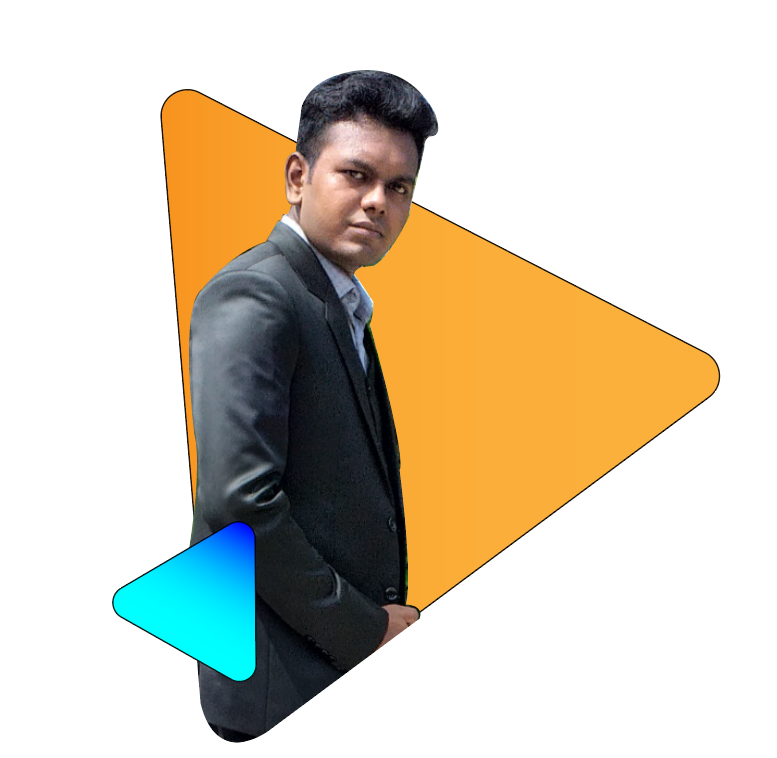
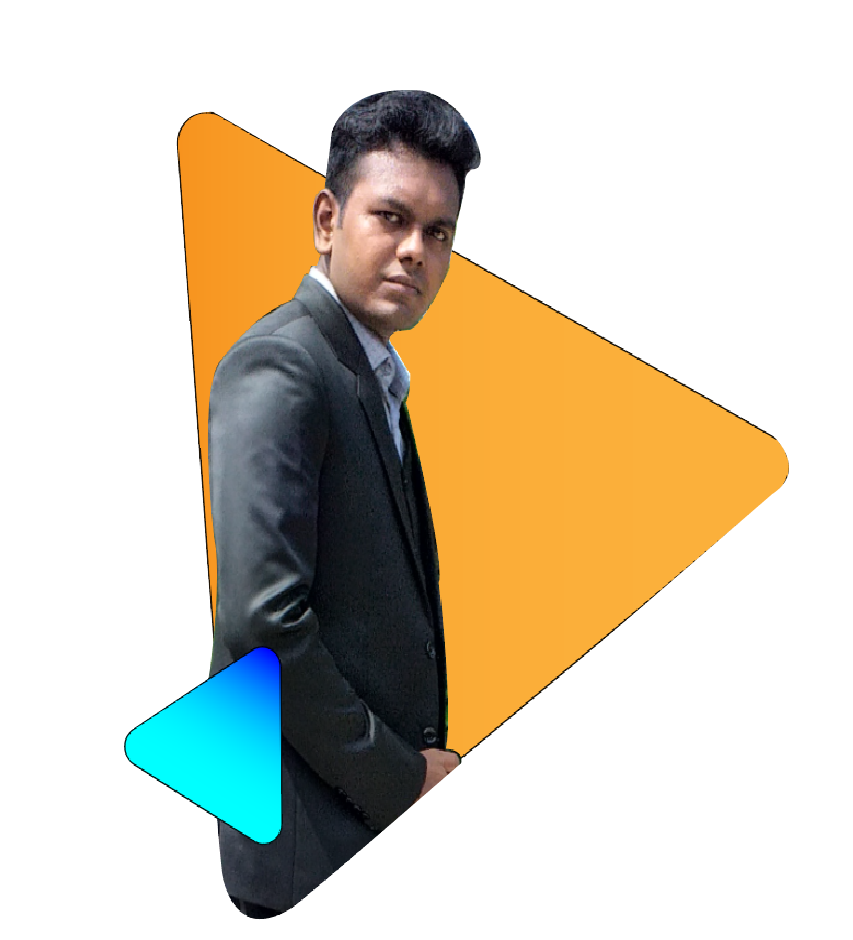
img change

diff --git a/index.html b/index.html
@@ -21,15 +21,15 @@
             <a class="orange" href="https://www.facebook.com/Ashik100100">HIRE ME</a>
         </div>
         <div class="half">
-            <img id="pic-1" src="images/ashik56.png" alt="">
+            <img id="pic-1" src="images/ashik1.png" alt="">
         </div>
     </section>
 
     <section class="midle-background">
         <div class="half">
-            <img id="pic-2" src="images/ashik55.png" alt="">
+            <img id="pic-2" src="images/ashik2.png" alt="">
         </div>
-        <div class="half">
+        <div id="midile-text" class="half">
            <h1 class="sec-header">Biography</h1> 
            <p>Lorem Ipsum is simpley text or the printing and typesetting industry. Lorem Ipsum has been the industry's standard dummy textever since the 1500s, when an unkunown took a galley of type and scrambled it to make a type</p>
            <a class="orange" href="https://www.cvplaza.com/cv-examples/data-entry-cv-template/">Download CV</a>
@@ -47,7 +47,7 @@
         <h1 class="sec-header">What Client say</h1>
         <div>
             <h3>Bruce Moccy</h3>
-            <p class="footer">Founder & CEO Alies</p>
+            <p class="foot">Founder & CEO Alies</p>
             <p>"Lorem lpsum is simply dummy text of the</p>
             <p>printimg and typesetting. Lorem lpsum"</p>
 

diff --git a/style.css b/style.css
@@ -12,14 +12,21 @@ body{
 
 }
 
+#pic-1{
+    padding-top: 0px !important;
+}
+
 .half{
     width: 45%;
     margin-left: 5%;
     float: left;
-    padding-top: 6%;
+    /* padding-top: 6%; */
     
 }
 
+#div-1{
+    padding-top: 150px;
+} 
  
 .orange{
     text-decoration: none;
@@ -50,18 +57,19 @@ body{
     
 }
 section{
-    height: 800px;
+    height: 900px;
 }
 
 .half img{
     width: 100%;
     
 }
-#pic{
-    padding-top: 3%;
+#midile-text{
+    padding-top: 150px;
 }
 
 .midle-background{
+    padding-top: 100px;
     background-image: url("images/biography-bg.png");
 }
 #work{
